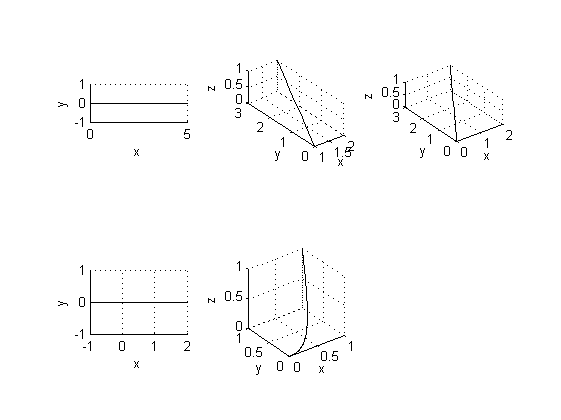
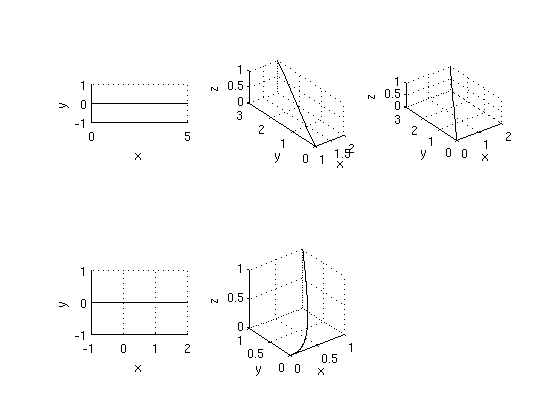
meshing

diff --git a/src/matlab/nihudemos/html/meshing_elements.html b/src/matlab/nihudemos/html/meshing_elements.html
@@ -6,7 +6,7 @@
    <!--
 This HTML was auto-generated from MATLAB code.
 To make changes, update the MATLAB code and republish this document.
-      --><title>Basic mesh elements</title><meta name="generator" content="MATLAB 8.1"><link rel="schema.DC" href="http://purl.org/dc/elements/1.1/"><meta name="DC.date" content="2013-09-12"><meta name="DC.source" content="meshing_elements.m"><style type="text/css">
+      --><title>Basic mesh elements</title><meta name="generator" content="MATLAB 8.0"><link rel="schema.DC" href="http://purl.org/dc/elements/1.1/"><meta name="DC.date" content="2015-03-20"><meta name="DC.source" content="meshing_elements.m"><style type="text/css">
 html,body,div,span,applet,object,iframe,h1,h2,h3,h4,h5,h6,p,blockquote,pre,a,abbr,acronym,address,big,cite,code,del,dfn,em,font,img,ins,kbd,q,s,samp,small,strike,strong,sub,sup,tt,var,b,u,i,center,dl,dt,dd,ol,ul,li,fieldset,form,label,legend,table,caption,tbody,tfoot,thead,tr,th,td{margin:0;padding:0;border:0;outline:0;font-size:100%;vertical-align:baseline;background:transparent}body{line-height:1}ol,ul{list-style:none}blockquote,q{quotes:none}blockquote:before,blockquote:after,q:before,q:after{content:'';content:none}:focus{outine:0}ins{text-decoration:none}del{text-decoration:line-through}table{border-collapse:collapse;border-spacing:0}
 
 html { min-height:100%; margin-bottom:1px; }
@@ -78,9 +78,9 @@ N = ceil(norm(diff(R,[],1))/Le);    <span class="comment">% number of elements</
 lin2 = create_line(R, N);
 </pre><p>If the first row of <tt>R</tt> is omitted, then the line starts at the origin:</p><pre class="codeinput">R = [2 3 1];
 lin3 = create_line(R, N);
-</pre><p>In the third method, the line's nodes <img src="meshing_elements_eq05306.png" alt="${\bf x}_i$"> are directly defined. In this case, the line is aligned along the <img src="meshing_elements_eq43551.png" alt="$x$"> axis.</p><pre class="codeinput">Cx = (-1:.1:+2)';          <span class="comment">% internal nodes</span>
+</pre><p>In the third method, the line's nodes <img src="meshing_elements_eq05306.png" alt="${\bf x}_i$"> are directly defined. In this case, the line is aligned along the <img src="meshing_elements_eq43551.png" alt="$x$"> axis.</p><pre class="codeinput">Cx = (-1:.1:2)';          <span class="comment">% internal nodes</span>
 lin4 = create_line(Cx);
-</pre><p>the nodes <img src="meshing_elements_eq05306.png" alt="${\bf x}_i$"> can be defined as three-dimensional coordinates. In this case <tt>Cx</tt> is an nx3 (or nx2) matrix:</p><pre class="codeinput">l = (0:1e-2:1)';
+</pre><p>the nodes <img src="meshing_elements_eq05306.png" alt="${\bf x}_i$"> can be defined as three-dimensional coordinates. In this case <tt>Cx</tt> is an nxd matrix where d is the space's dimension:</p><pre class="codeinput">l = (0:1e-2:1)';
 Cx = [ l l.^2 l.^3 ];          <span class="comment">% internal nodes</span>
 lin5 = create_line(Cx);
 
@@ -130,9 +130,9 @@ brick1 = create_brick(L, N);
     -.1 .7 1
     ];
 brick2 = create_brick(C, [10, 10, 10]);
-</pre><p>With the third method, non-uniform sampling can easily be defined:</p><pre class="codeinput">Cx = (.1:.05:1).^2; <span class="comment">% nodes along the x axis</span>
-Cy = (.1:.05:1).^3; <span class="comment">% nodes along the y axis</span>
-Cz = (.1:.05:1).^4; <span class="comment">% nodes along the z axis</span>
+</pre><p>With the third method, non-uniform sampling can easily be defined:</p><pre class="codeinput">Cx = (.1:.1:1).^2; <span class="comment">% nodes along the x axis</span>
+Cy = (.1:.1:1).^3; <span class="comment">% nodes along the y axis</span>
+Cz = (.1:.1:1).^4; <span class="comment">% nodes along the z axis</span>
 brick3 = create_brick(Cx, Cy, Cz);
 </pre><p>Brick boundaries can be meshed using the toolbox function <a href="matlab:doc('create_brick_boundary')">create_brick_boundary</a>, by defining the brick dimensions and division parameters.</p><pre class="codeinput">N = ceil(L / Le);   <span class="comment">% Division parameter [Nx Ny Nz]</span>
 brickb = create_brick_boundary(L, N);
@@ -154,7 +154,7 @@ subplot(2,2,1); plot_mesh(circlequad);
 subplot(2,2,2); plot_mesh(circle);
 subplot(2,2,3); plot_mesh(sphere);
 subplot(2,2,4); plot_mesh(cat);  view([110 35]);
-</pre><img vspace="5" hspace="5" src="meshing_elements_04.png" alt=""> <p class="footer"><br><a href="http://www.mathworks.com/products/matlab/">Published with MATLAB&reg; R2013a</a><br></p></div><!--
+</pre><img vspace="5" hspace="5" src="meshing_elements_04.png" alt=""> <p class="footer"><br><a href="http://www.mathworks.com/products/matlab/">Published with MATLAB&reg; R2012b</a><br></p></div><!--
 ##### SOURCE BEGIN #####
 %% Basic mesh elements
 % This tutorial describes how to create simple meshes using the toolbox
@@ -169,7 +169,6 @@ subplot(2,2,4); plot_mesh(cat);  view([110 35]);
 % * Defining its starting and ending positions ${\bf x}_1$ and ${\bf x}_2$,
 % as well as the number of elements $n_E$
 % * Defining the internal nodes ${\bf x}_i$ of the line.
-
 
 %%
 % In the first example, the first method is applied.
@@ -197,12 +196,12 @@ lin3 = create_line(R, N);
 %%
 % In the third method, the line's nodes ${\bf x}_i$ are directly defined.
 % In this case, the line is aligned along the $x$ axis.
-Cx = (-1:.1:+2)';          % internal nodes
+Cx = (-1:.1:2)';          % internal nodes
 lin4 = create_line(Cx);
 
 %%
 % the nodes ${\bf x}_i$ can be defined as three-dimensional coordinates. In
-% this case |Cx| is an nx3 (or nx2) matrix:
+% this case |Cx| is an nxd matrix where d is the space's dimension:
 l = (0:1e-2:1)';
 Cx = [ l l.^2 l.^3 ];          % internal nodes
 lin5 = create_line(Cx);
@@ -307,9 +306,9 @@ brick2 = create_brick(C, [10, 10, 10]);
 
 %%
 % With the third method, non-uniform sampling can easily be defined:
-Cx = (.1:.05:1).^2; % nodes along the x axis
-Cy = (.1:.05:1).^3; % nodes along the y axis
-Cz = (.1:.05:1).^4; % nodes along the z axis
+Cx = (.1:.1:1).^2; % nodes along the x axis
+Cy = (.1:.1:1).^3; % nodes along the y axis
+Cz = (.1:.1:1).^4; % nodes along the z axis
 brick3 = create_brick(Cx, Cy, Cz);
 
 %%

diff --git a/src/matlab/meshing/flip_elements.m b/src/matlab/meshing/flip_elements.m
@@ -8,30 +8,34 @@ function Elements = flip_elements(Elements)
 
 % Last modified 2015.03.19.
 
+% explains how a geometrical element is flipped
 flipRules = {
-    ShapeSet.ConstantLine.Id,  [1]
+    ShapeSet.ConstantLine.Id,  1
+    ShapeSet.ConstantTria.Id,  1
+    ShapeSet.ConstantQuad.Id,  1
+    ShapeSet.ConstantPenta.Id,  1
+    ShapeSet.ConstantHexa.Id,  1
     ShapeSet.LinearLine.Id,  [2 1]
-    ShapeSet.QuadraticLine.Id,  [3 2 1]
-    ShapeSet.ConstantTria.Id,  [1]
     ShapeSet.LinearTria.Id,  [3 2 1]
-    ShapeSet.QuadraticTria.Id,  [3 2 1 6 5 4]
-    ShapeSet.ConstantQuad.Id,  [1]
     ShapeSet.LinearQuad.Id,  [4 3 2 1]
-    ShapeSet.ConstantPenta.Id,  [1]
+    ShapeSet.LinearTetra.Id, [3 2 1 4]
     ShapeSet.LinearPenta.Id,  [4 5 6 1 2 3]
-    ShapeSet.ConstantHexa.Id,  [1]
     ShapeSet.LinearHexa.Id,  [5 6 7 8 1 2 3 4]
+    ShapeSet.QuadraticLine.Id,  [3 2 1]
+    ShapeSet.QuadraticTria.Id,  [3 2 1 6 5 4]
     };
 
+% extract first column from flipRules
 setids = cell2mat(flipRules(:,1));
 
+% traverse unique lset id's
 lsets = unique(Elements(:,2));
 for i = 1 : length(lsets)
     id = lsets(i);
-    perm = flipRules{setids == id,2};
-    sel = find(Elements(:,2) == id);
     lset = ShapeSet.fromId(id);
     nNodes = size(lset.Nodes,1);
+    perm = flipRules{setids == id,2};
+    sel = find(Elements(:,2) == id);
     ind = 4+(1:nNodes);
     nodes = Elements(sel,ind);
     Elements(sel,ind) = nodes(:,perm);

diff --git a/src/matlab/meshing/get_faces.m b/src/matlab/meshing/get_faces.m
@@ -12,7 +12,7 @@ function E = get_faces(elements)
 %   Budapest University of Technology and Economics
 %   Dept. of Telecommunications
 
-FaceDef = {
+faceRules = {
     ShapeSet.LinearTria, ShapeSet.LinearLine, [1 2; 2 3; 3 1]
     ShapeSet.LinearQuad, ShapeSet.LinearLine, [1 2; 2 3; 3 4; 4 1]
     ShapeSet.LinearTetra, ShapeSet.LinearTria, [1 2 4; 2 3 4; 3 1 4; 1 3 2]
@@ -26,8 +26,8 @@ FaceDef = {
 E = zeros(0,0);
 N = 0;
 
-for i = 1 : size(FaceDef,1)
-    srclset = FaceDef{i,1};
+for i = 1 : size(faceRules,1)
+    srclset = faceRules{i,1};
     
     sel = elements(:,2) == srclset.Id;
     if ~any(sel)
@@ -36,8 +36,8 @@ for i = 1 : size(FaceDef,1)
     
     N = size(E,1);
 
-    dstlset = FaceDef{i,2};
-    faceind = FaceDef{i,3};
+    dstlset = faceRules{i,2};
+    faceind = faceRules{i,3};
     
     f = reshape(faceind.', [], 1);
     e = elements(sel, 4+f);
